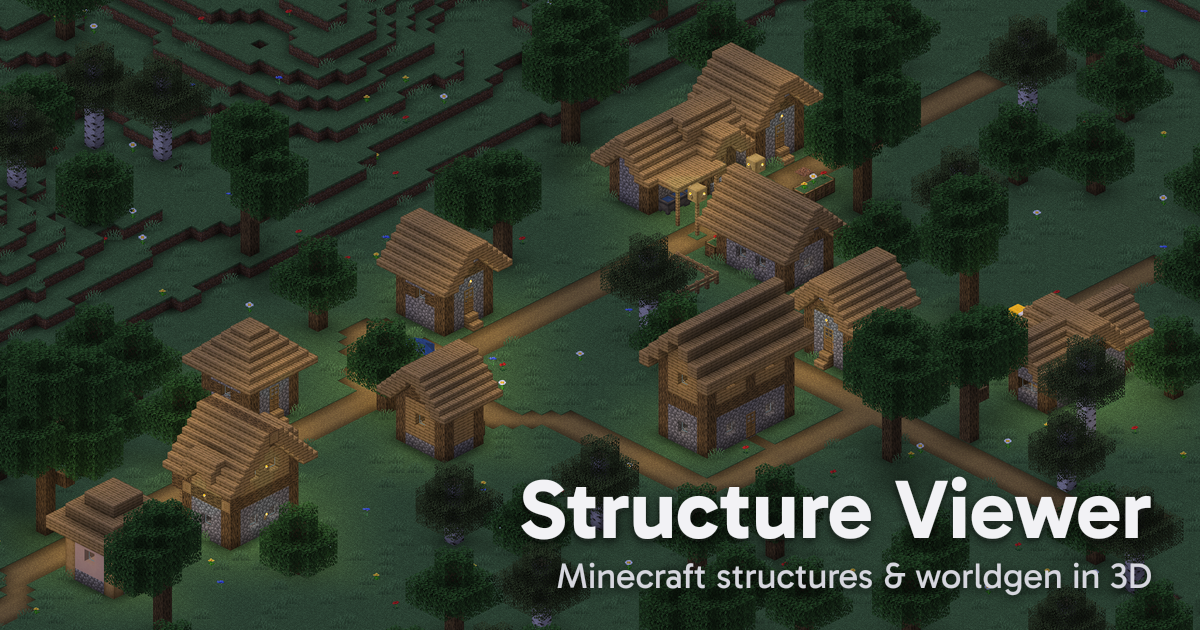
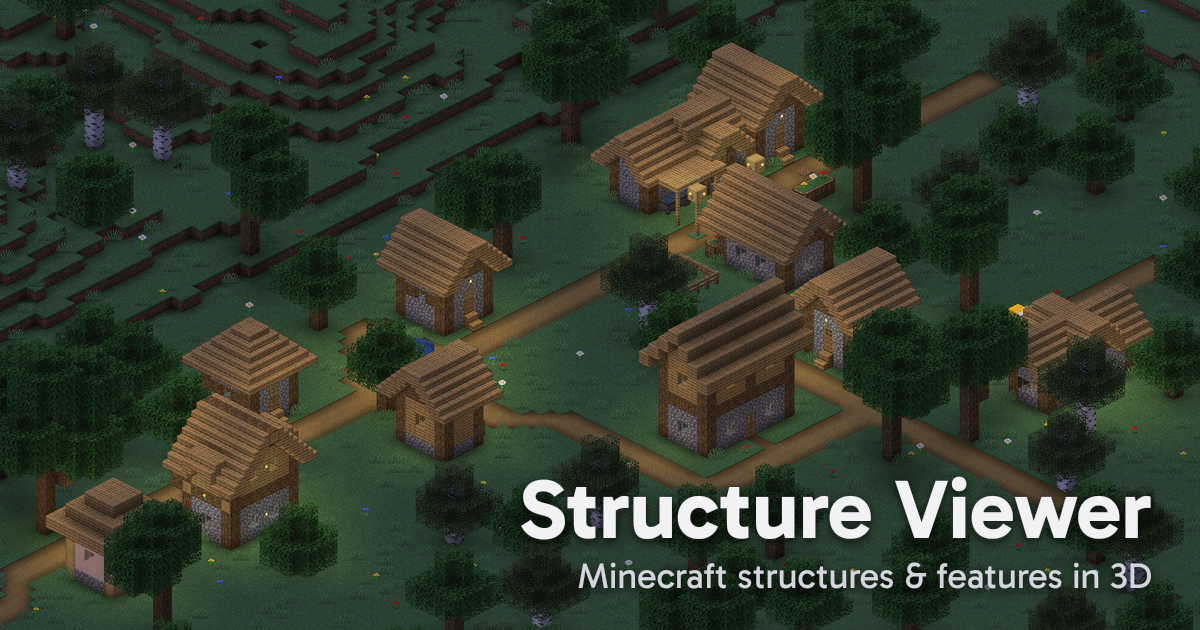
cover says features, not worldgen

Changed region(s): [[0.4625, 0.8746, 0.8942, 0.9349]]

diff --git a/tools/og-image.js b/tools/og-image.js
@@ -363,7 +363,7 @@ const overlay = Buffer.from(`<svg width="1200" height="630" xmlns="http://www.w3
   </filter>
   <g filter="url(#shadow)" text-anchor="end" font-family="Gabarito">
     <text x="1152" y="538" font-size="84" font-weight="700" fill="#f2f2f5">Structure Viewer</text>
-    <text x="1152" y="588" font-size="36" fill="#d6d6de">Minecraft structures &amp; worldgen in 3D</text>
+    <text x="1152" y="588" font-size="36" fill="#d6d6de">Minecraft structures &amp; features in 3D</text>
   </g>
 </svg>`)
 await sharp(render).resize(1200, 630).composite([{ input: overlay }]).png().toFile(path.join(root, "public/cover.png"))
